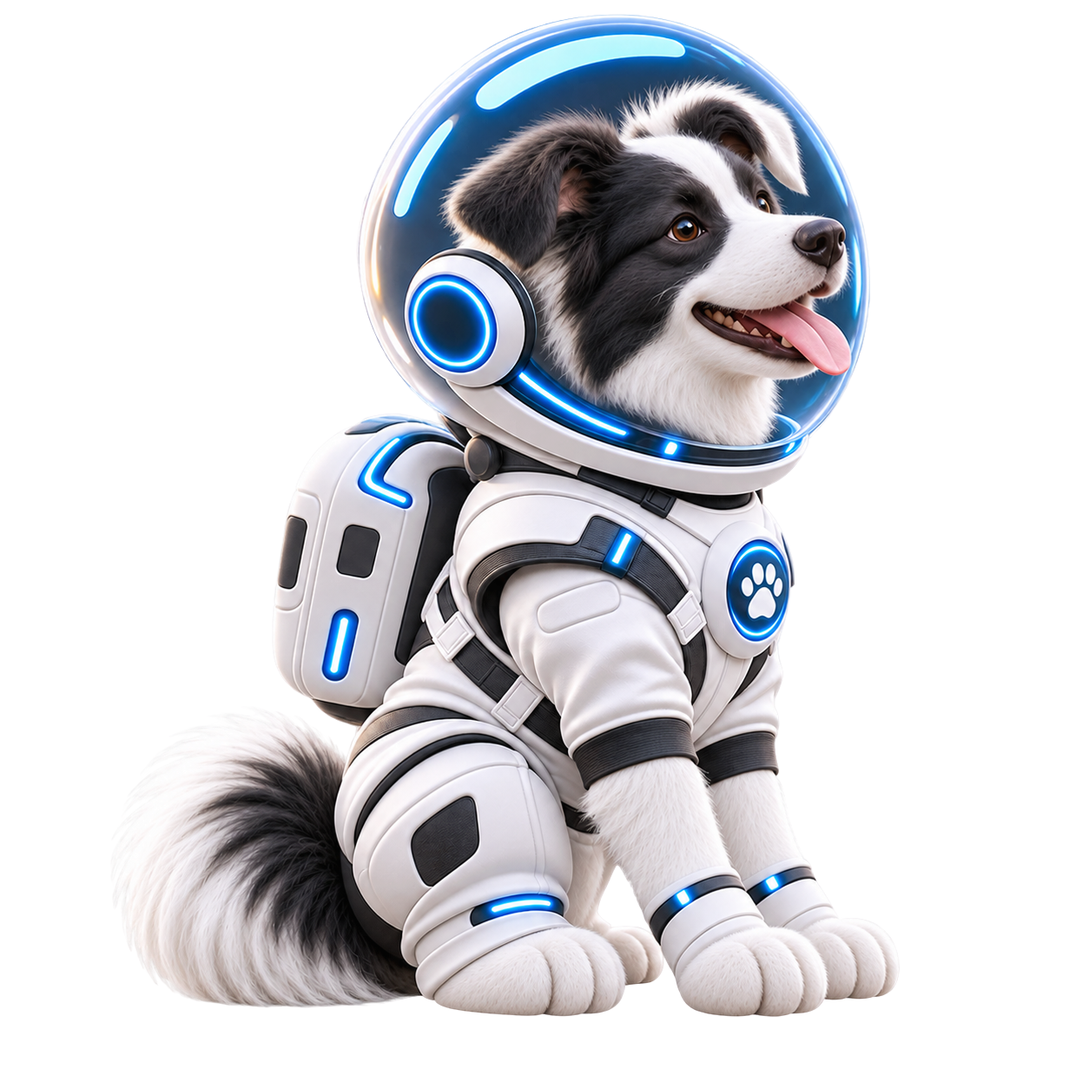
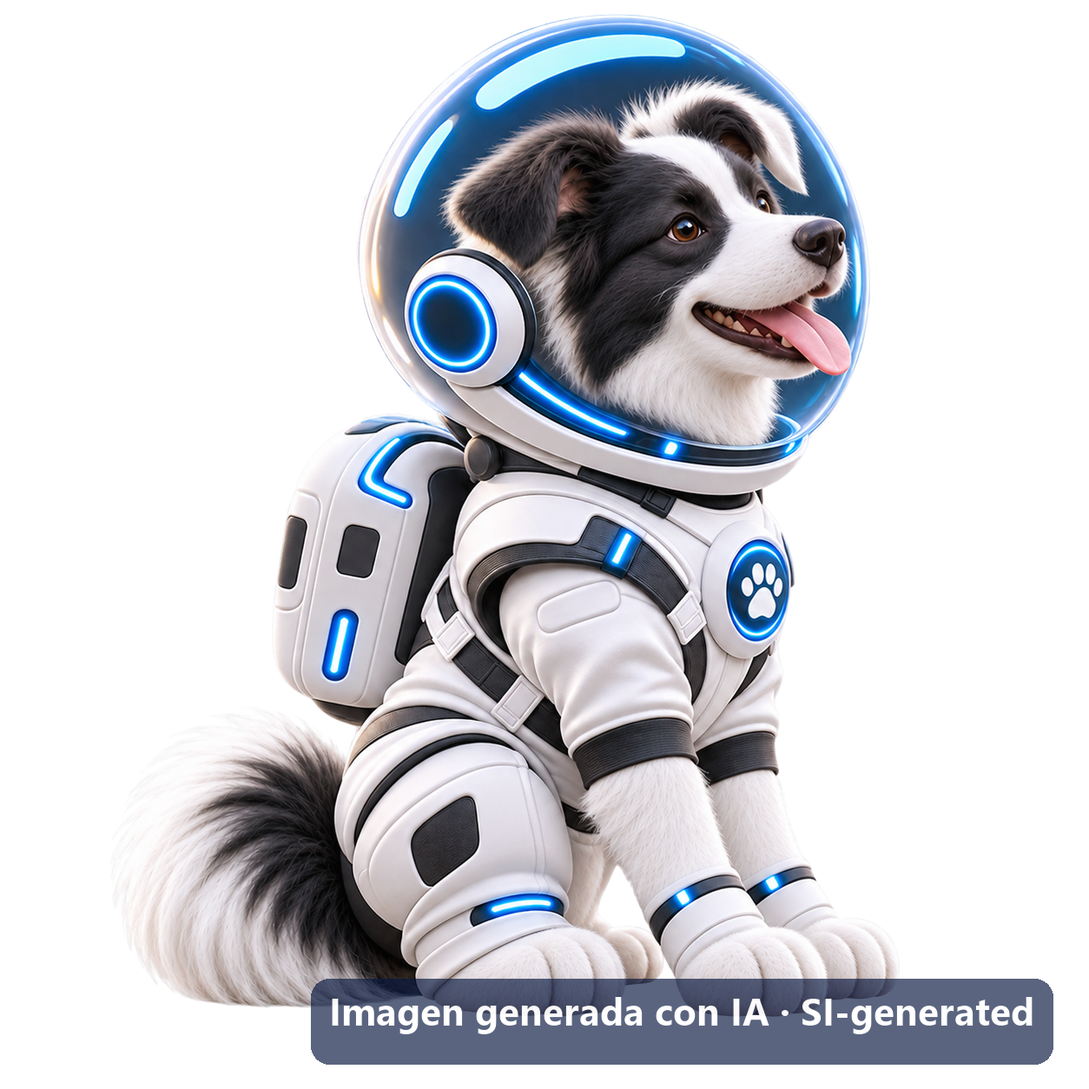
Entregables completos: enlaces públicos de demo y diapositivas, marca de agua de IA en las imágenes de Laica
- Laica muestra "Imagen generada con IA" en la app; cada diapositiva y los originales también la llevan.
- Ficha, declaración de IA, formulario, pitch y rúbrica sin placeholders: demo https://mision-laica.vercel.app y diapositivas /presentacion/.
- Ficha bilingüe con la charla de salud, la cámara con permiso y 40 pruebas.

Changed region(s): [[0.2799, 0.8708, 0.9952, 0.9952]]

diff --git a/entregables/diapositivas/index.html b/entregables/diapositivas/index.html
@@ -282,6 +282,9 @@ section.claro .num, section.claro .grande { color: #D0281A; }
   100.00% { transform: translate(0px, 0px) rotate(0.0deg) scale(1.000, 1.000); opacity: 1; }
 }
 
+/* Marca de agua visible: las imágenes de Laica se generaron con IA (regla de Space Apps). */
+section::after { content: "Imágenes de Laica generadas con IA · SI-generated images"; position: absolute; right: 40px; top: 40px; font: 600 20px 'Inter', Arial, sans-serif; color: #fff; background: rgba(7, 23, 63, .62); padding: 6px 16px; border-radius: 20px; z-index: 5; pointer-events: none; }
+
 </style>
 </head>
 <body>
@@ -297,7 +300,7 @@ section.claro .num, section.claro .grande { color: #D0281A; }
 <p class="texto entra" style="--i:2; width:940px; font-size:40px; color:var(--crema);">Una compañera que cuida la salud del astronauta cuando la Tierra está demasiado lejos para contestar.</p>
 <p class="texto entra" style="--i:3; width:940px;">Reto: <b>Create Health Monitoring Software for Astronauts on Space Missions</b></p>
 <p class="texto entra" style="--i:4; width:940px;">Equipo <b>Compumax Evolution</b> · Ecuador<br>Melany Irua · Diego Paz · Geovanny Basantes</p>
-<div class="pie"><span>github.com/COMPUMAX-EC/nasa-astronaut-health-monitoring</span><span>Demo: [enlace público de Vercel]</span></div>
+<div class="pie"><span>github.com/COMPUMAX-EC/nasa-astronaut-health-monitoring</span><span>Demo: mision-laica.vercel.app</span></div>
 <aside>[0:00–0:30] Gancho: “En Marte, un mensaje a la Tierra tarda hasta 22 minutos en llegar, y otros 22 en volver. Si a las 3 de la mañana a un astronauta le sube la presión, ¿quién le dice si es grave?” Presentarse: somos el equipo Compumax Evolution de Ecuador (Melany Irua, Diego Paz y Geovanny Basantes), reto oficial Create Health Monitoring Software for Astronauts on Space Missions. Esta es Misión Laica, y ella es Laica. (En la animación, Laica salta del monitor de la estación al celular del astronauta: la misma compañera en el módulo médico y en el bolsillo.)</aside>
 </section>
 

diff --git a/assets/laica/laica.js b/assets/laica/laica.js
@@ -572,6 +572,11 @@ svg.laica.p-cuatro.andando .cola { animation-duration: .3s; }
 .foto img.activa { opacity: 1; }
 .foto canvas.rig { position: absolute; left: -18%; top: -18%; width: 136%; height: 136%; pointer-events: none; }
 .foto.rig-on img { visibility: hidden; }
+.foto-modo { position: relative; }
+/* Marca de agua visible: las imágenes de Laica se generaron con IA (regla de Space Apps). */
+.marca-ia { position: absolute; left: 50%; bottom: 0; transform: translateX(-50%); white-space: nowrap; pointer-events: none;
+  font: 600 max(9px, calc(var(--tam, 200px) * .045)) system-ui, sans-serif; color: #fff; background: rgba(7, 23, 63, .62);
+  padding: .15em .6em; border-radius: 1em; letter-spacing: .02em; }
 .foto.rig-on.andando, .foto.rig-on.ladra { animation: none; }
 .fx { position: absolute; opacity: 0; pointer-events: none; font-weight: 800; line-height: 1; transition: opacity .3s; }
 .fx.zzz { top: 4%; right: 6%; color: #fff; font-size: calc(var(--tam) * .1); text-shadow: 0 2px 0 #1F2A5A; }
@@ -980,7 +985,7 @@ svg.laica.p-cuatro.andando .cola { animation-duration: .3s; }
             <span class="fx zzz">Z<i>z</i><i>z</i></span>
             <span class="fx destellos"><b style="left:6%;top:12%">✦</b><b style="right:8%;top:6%">✦</b><b style="right:2%;top:42%">✦</b><b style="left:2%;top:46%">✦</b></span>
             <span class="fx rad">☢</span><span class="fx sudor">💧</span>
-          </div></div></div>`;
+          </div></div><span class="marca-ia">Imagen generada con IA</span></div>`;
         this._fotos = [...root.querySelectorAll(".foto img")];
         this._foto = root.querySelector(".foto");
         this._giro = root.querySelector(".giro");

diff --git a/entregables/diapositivas/slides/portada.html b/entregables/diapositivas/slides/portada.html
@@ -6,6 +6,6 @@
 <p class="texto entra" style="--i:2; width:940px; font-size:40px; color:var(--crema);">Una compañera que cuida la salud del astronauta cuando la Tierra está demasiado lejos para contestar.</p>
 <p class="texto entra" style="--i:3; width:940px;">Reto: <b>Create Health Monitoring Software for Astronauts on Space Missions</b></p>
 <p class="texto entra" style="--i:4; width:940px;">Equipo <b>Compumax Evolution</b> · Ecuador<br>Melany Irua · Diego Paz · Geovanny Basantes</p>
-<div class="pie"><span>github.com/COMPUMAX-EC/nasa-astronaut-health-monitoring</span><span>Demo: [enlace público de Vercel]</span></div>
+<div class="pie"><span>github.com/COMPUMAX-EC/nasa-astronaut-health-monitoring</span><span>Demo: mision-laica.vercel.app</span></div>
 <aside>[0:00–0:30] Gancho: “En Marte, un mensaje a la Tierra tarda hasta 22 minutos en llegar, y otros 22 en volver. Si a las 3 de la mañana a un astronauta le sube la presión, ¿quién le dice si es grave?” Presentarse: somos el equipo Compumax Evolution de Ecuador (Melany Irua, Diego Paz y Geovanny Basantes), reto oficial Create Health Monitoring Software for Astronauts on Space Missions. Esta es Misión Laica, y ella es Laica. (En la animación, Laica salta del monitor de la estación al celular del astronauta: la misma compañera en el módulo médico y en el bolsillo.)</aside>
 </section>

diff --git a/entregables/diapositivas/deck.css b/entregables/diapositivas/deck.css
@@ -261,3 +261,6 @@ section.claro .num, section.claro .grande { color: #D0281A; }
   94.24% { transform: translate(0px, 0px) rotate(0.0deg) scale(1.000, 1.000); opacity: 0; }
   100.00% { transform: translate(0px, 0px) rotate(0.0deg) scale(1.000, 1.000); opacity: 1; }
 }
+
+/* Marca de agua visible: las imágenes de Laica se generaron con IA (regla de Space Apps). */
+section::after { content: "Imágenes de Laica generadas con IA · SI-generated images"; position: absolute; right: 40px; top: 40px; font: 600 20px 'Inter', Arial, sans-serif; color: #fff; background: rgba(7, 23, 63, .62); padding: 6px 16px; border-radius: 20px; z-index: 5; pointer-events: none; }

diff --git a/docs/13-pitch.en.md b/docs/13-pitch.en.md
@@ -6,21 +6,22 @@ The live pitch in Sangolquí is in Spanish; the platform deliverables must be bi
 
 ## Project summary (for the project page)
 
-**Laica Mission** is an offline health‑monitoring app for astronauts on long missions, built for the NASA Space Apps Challenge 2026 *Create Health Monitoring Software for Astronauts on Space Missions*. A corgi astronaut companion, Laica, runs the daily check‑in (voice, keyboard or mouse), turns vital signs into green / yellow / orange / red alerts based on NASA‑STD‑3001 thresholds, explains each body zone on a clickable human figure, and keeps the crew company against isolation, one of NASA’s 5 hazards of human spaceflight. It works without internet, keeps all data on the device, and can even leave the browser and walk across the desktop.
+**Laica Mission** is an offline health‑monitoring app for astronauts on long missions, built for the NASA Space Apps Challenge 2026 *Create Health Monitoring Software for Astronauts on Space Missions*. An astronaut dog companion, Laica, runs the daily check‑in (voice, keyboard or mouse), turns vital signs into green / yellow / orange / red alerts based on NASA‑STD‑3001 thresholds, explains each body zone on a clickable human figure, and keeps the crew company against isolation, one of NASA’s 5 hazards of human spaceflight. It works without internet, keeps all data on the device, and can even leave the browser and walk across the desktop.
 
 - **Repository:** https://github.com/COMPUMAX-EC/nasa-astronaut-health-monitoring (code MIT, texts CC BY 4.0)
-- **Live demo:** [public Vercel link]
+- **Live demo:** https://mision-laica.vercel.app
+- **Slides:** https://mision-laica.vercel.app/presentacion/
 - **NASA data and sources:** NASA‑STD‑3001 Vol. 1 and 2, Human Research Program (5 Hazards, Human Research Roadmap), DONKI API (solar energetic particle events and flares), OSDR, NTRS, NASA Twins Study.
-- **AI use:** Claude (Anthropic) was used as a coding and writing assistant; the team reviewed all output. [State whether the Canva images of Laica were AI‑generated; if so, they carry a watermark.] No NASA logos are used.
+- **AI use:** Claude (Anthropic) was used as a coding and writing assistant; the team reviewed all output. Laica's images were AI‑generated and carry a visible watermark. No NASA logos are used.
 
 ## Slides and script
 
 | # | Slide | Time | Script |
 |---|---|---|---|
-| 1 | Cover: Laica Mission | 0:00–0:30 | On Mars, a message to Earth takes up to 22 minutes to arrive, and 22 more to come back. If an astronaut’s blood pressure spikes at 3 a.m., who tells them whether it is serious? We are team [name] from Ecuador. This is Laica Mission, and this is Laica. |
+| 1 | Cover: Laica Mission | 0:00–0:30 | On Mars, a message to Earth takes up to 22 minutes to arrive, and 22 more to come back. If an astronaut’s blood pressure spikes at 3 a.m., who tells them whether it is serious? We are team Compumax Evolution from Ecuador: Melany Irua, Diego Paz and Geovanny Basantes. This is Laica Mission, and this is Laica. |
 | 2 | The problem | 0:30–1:15 | NASA groups spaceflight risks into 5 hazards: radiation, isolation, distance, gravity and a hostile, closed environment. With a 20‑minute delay, the crew cannot wait for ground control: they must notice changes themselves. Users: Artemis and Mars crews, analogs like HERA and CHAPEA, and isolated people on Earth, such as Ecuador’s Antarctic station, the Galápagos and remote rural areas. |
 | 3 | The solution | 1:15–2:00 | An offline app with four parts: daily check‑in by voice, keyboard or clicks; a four‑level alert engine that says what to do and when to call the flight surgeon; a clickable body that colors each zone by its worst indicator; and Laica, the companion. Existing tools measure; Laica Mission also keeps you company. |
 | 4 | NASA data | 2:00–2:50 | Thresholds come from NASA‑STD‑3001 (for example, the 600 mSv career radiation limit). From the Human Research Roadmap we built a 47‑indicator risk matrix (likelihood × severity, measurement frequency, collection method). NASA’s DONKI API provides solar particle events; our script downloads them, and the demo’s solar storm follows that event type and triggers the radiation alert (live connection is phase 6). Pipeline: official sources → risk matrix → threshold rules → level and action. Crew data are simulated (30 days, fixed seed, reproducible). |
-| 5 | Architecture and live demo | 2:50–4:00 | React + Vite PWA with an offline service worker, IndexedDB on the device only, Web Speech API in Spanish with no cloud, our own `<laica-mascota>` web component and an Electron desktop app; 33 automated tests. Demo: Laica greets → say “my pressure is 165 over 105” → red alert → click the heart → day 17 solar storm, go to the shelter → all green, Laica leaves the browser and walks on the taskbar. |
+| 5 | Architecture and live demo | 2:50–4:00 | React + Vite PWA with an offline service worker, IndexedDB on the device only, Web Speech API in Spanish with no cloud, our own `<laica-mascota>` web component and an Electron desktop app; 40 automated tests. Demo: Laica greets → say “my pressure is 165 over 105” → red alert → click the heart → day 17 solar storm, go to the shelter → all green, Laica leaves the browser and walks on the taskbar. |
 | 6 | Impact and roadmap | 4:00–4:40 | Medical autonomy in space; in Ecuador, support for isolated staff without internet, in Spanish; voice, keyboard or mouse, plain language, respects reduced motion. Next: phrase bank and local memory, live DONKI and camera heart rate, then real sensors and clinical validation of thresholds. Educational tool, not a medical device. |
 | 7 | Transparency and team | 4:40–5:00 | AI assistance declared, sources credited, CC0 sounds, only the official Space Apps event logo (no NASA insignia), open source. “On Earth we have someone to call. On Mars, Laica answers first.” |

diff --git a/entregables/ficha-proyecto.md b/entregables/ficha-proyecto.md
@@ -1,6 +1,6 @@
 # Ficha del proyecto · Project Sheet
 
-Texto listo para copiar en la plataforma global de NASA Space Apps y en el formulario de la sede. Los `[corchetes]` se completan antes de las 09:00 del domingo 15 de noviembre.
+Texto listo para copiar en la plataforma global de NASA Space Apps y en el formulario de la sede. Todos los campos están completos.
 
 | Campo | Valor |
 |---|---|
@@ -10,9 +10,9 @@ Texto listo para copiar en la plataforma global de NASA Space Apps y en el formu
 | **Reto / Challenge** | Create Health Monitoring Software for Astronauts on Space Missions |
 | **Repositorio / Repository** | https://github.com/COMPUMAX-EC/nasa-astronaut-health-monitoring |
 | **Licencia / License** | Código MIT; textos CC BY 4.0 ([LICENSE](../LICENSE)) |
-| **Demo pública / Live demo** | [enlace de Vercel; probar en modo incógnito] |
-| **Presentación / Slides** | [enlace público o PDF de 7 diapositivas] |
-| **Video (opcional) / Video** | [enlace; máximo 30 s] |
+| **Demo pública / Live demo** | https://mision-laica.vercel.app |
+| **Presentación / Slides** | https://mision-laica.vercel.app/presentacion/ (7 diapositivas animadas, sin iniciar sesión) |
+| **Video (opcional) / Video** | No se presenta (opcional) |
 | **Datos NASA / NASA data** | [datos-nasa.md](datos-nasa.md) |
 | **Declaración de IA / AI declaration** | [declaracion-ia.md](declaracion-ia.md) |
 
@@ -35,12 +35,14 @@ En una misión a Marte, un mensaje a la Tierra tarda hasta 22 minutos en llegar.
 - **Matriz de 47 indicadores** basada en el Human Research Program, con probabilidad × gravedad.
 - **Alerta de radiación** según los eventos de partículas solares de **DONKI** (NASA).
 - **Laica**, una perrita astronauta que combate el aislamiento. Cambia de tono según la alerta, ladra, habla y escucha, y hasta puede salir del navegador y caminar por el escritorio (app de escritorio en Electron).
+- **Charla con preguntas de salud:** Laica mezcla conversación casual con preguntas de un toque sobre la mente (ánimo, soledad, estrés) y el cuerpo (agua, ejercicio, vista y SANS, espalda, mareo). El ánimo se guarda como indicador.
+- **Cámara con permiso:** Laica pide permiso antes de prender la cámara; con MediaPipe, dentro del dispositivo y sin grabar nada, imita los gestos de la cabeza, se ríe cuando la persona se ríe y, si nota tristeza, propone una respiración guiada.
 
 **Por qué importa:** las herramientas existentes miden; Misión Laica además acompaña. Sirve a tripulaciones de Artemis y Marte y a análogos como HERA y CHAPEA. En Ecuador sirve a personal aislado (la estación antártica Pedro Vicente Maldonado, Galápagos, zonas rurales), porque funciona sin conexión y en español.
 
-**Tecnología:** React 18 + Vite (PWA con service worker), IndexedDB, Web Speech API, Web Component propio con animación WebGL, Electron y Python (scripts para las APIs de NASA). Tiene 33 pruebas automáticas.
+**Tecnología:** React 18 + Vite (PWA con service worker), IndexedDB, Web Speech API, MediaPipe Face Landmarker (en el dispositivo), Web Component propio con animación WebGL, Electron y Python (scripts para las APIs de NASA). Tiene 40 pruebas automáticas.
 
-**Próximos pasos:** banco de frases y memoria local, DONKI en vivo, frecuencia cardiaca por cámara, sensores reales y validación de los umbrales con médicos.
+**Próximos pasos:** respuestas por voz a las preguntas, memoria local, DONKI en vivo, frecuencia cardiaca por cámara, sensores reales y validación de los umbrales con médicos.
 
 **Aviso:** herramienta educativa; no es un dispositivo médico ni reemplaza al médico de vuelo. No está afiliado ni respaldado por la NASA.
 
@@ -63,11 +65,13 @@ On a mission to Mars, a message to Earth takes up to 22 minutes to arrive. Astro
 - **47‑indicator risk matrix** based on NASA's Human Research Program (likelihood × severity).
 - **Radiation alert** based on solar particle events from NASA's **DONKI**.
 - **Laica**, an astronaut dog who fights isolation. She changes tone with the alert level, barks, talks and listens, and can even leave the browser and walk across the desktop (Electron desktop app).
+- **Small talk with health questions:** Laica mixes casual conversation with one‑tap questions about the mind (mood, loneliness, stress) and the body (hydration, exercise, vision and SANS, back pain, nausea). Mood is saved as an indicator.
+- **Camera with consent:** Laica asks before turning on the camera; with MediaPipe, on the device and recording nothing, she mirrors head gestures, laughs when the person laughs and, if she notices sadness, offers a guided breathing exercise.
 
 **Why it matters:** existing tools measure; Laica Mission also keeps you company. It serves Artemis and Mars crews and analogs such as HERA and CHAPEA. In Ecuador it serves isolated personnel (Pedro Vicente Maldonado Antarctic station, Galápagos, rural areas), because it works offline and in Spanish.
 
-**Technology:** React 18 + Vite (PWA with service worker), IndexedDB, Web Speech API, our own Web Component with WebGL animation, Electron and Python (scripts for NASA APIs). 33 automated tests.
+**Technology:** React 18 + Vite (PWA with service worker), IndexedDB, Web Speech API, MediaPipe Face Landmarker (on‑device), our own Web Component with WebGL animation, Electron and Python (scripts for NASA APIs). 40 automated tests.
 
-**Next steps:** phrase bank and local memory, live DONKI, camera‑based heart rate, real sensors and clinical validation of thresholds.
+**Next steps:** voice answers to the health questions, local memory, live DONKI, camera‑based heart rate, real sensors and clinical validation of thresholds.
 
 **Disclaimer:** educational tool; not a medical device and not a replacement for a flight surgeon. Not affiliated with or endorsed by NASA.

diff --git a/entregables/formulario-space-apps.md b/entregables/formulario-space-apps.md
@@ -30,7 +30,7 @@ Everything runs locally as a PWA and an Electron desktop app: no internet, no cl
 **Project Demonstration** (slides, máximo 7, enlace público)
 
 ```
-[enlace público a las diapositivas: exportar el deck a PDF o PPTX, subirlo a Google Drive o GitHub con "cualquiera con el enlace"]
+https://mision-laica.vercel.app/presentacion/
 ```
 
 **Project** (enlace público)
@@ -39,7 +39,7 @@ Everything runs locally as a PWA and an Electron desktop app: no internet, no cl
 https://github.com/COMPUMAX-EC/nasa-astronaut-health-monitoring
 ```
 
-(Si la demo en Vercel ya está pública, puedes poner esa URL aquí y el repositorio en "Project Details".)
+Demo en vivo, sin iniciar sesión: https://mision-laica.vercel.app (si el formulario admite un solo enlace aquí, deja el repositorio; la demo ya aparece en "Project Details").
 
 ---
 
@@ -48,6 +48,8 @@ https://github.com/COMPUMAX-EC/nasa-astronaut-health-monitoring
 **Project Details**
 
 ```
+Live demo (no sign-in): https://mision-laica.vercel.app · Slides: https://mision-laica.vercel.app/presentacion/
+
 WHAT IT DOES
 Misión Laica helps an astronaut collect their own health indicators, understand their state and act, without waiting for Earth.
 1. Daily check-in by voice (Spanish Web Speech API, on-device), keyboard or clicks. Laica repeats what she understood before saving.
@@ -86,13 +88,13 @@ Voice answers to the health questions, live DONKI feed, mission profiles, camera
 
 - ✅ Código (code): Claude (Anthropic) se usó como asistente de programación.
 - ✅ Texto (text/writing): Claude ayudó a redactar documentación y el guion del pitch; el equipo revisó todo.
-- ❓ Imágenes (images): **solo si** las imágenes de Laica en Canva se generaron con IA. En ese caso deben llevar marca de agua visible "SI-generated" (ver `declaracion-ia.md`).
+- ✅ Imágenes (images): las imágenes de Laica se generaron con IA y llevan marca de agua visible "Imagen generada con IA · SI-generated" (en la app, en cada diapositiva y en los originales).
 - ❌ Audio: los sonidos son CC0 de OpenGameArt, no son generados por IA.
 
 Texto para el campo, si hay uno:
 
 ```
-We used Claude (Anthropic) as a coding and writing assistant: application code, the mascot's animation rig, the camera gesture logic, documentation and the pitch script. Every output was reviewed and tested by the team (33 automated tests). [If applicable: Laica's images were created in Canva with AI image tools and carry a visible "SI-generated" watermark.] No SI was used for audio (CC0 sound effects) or for the data: thresholds and events come from official NASA sources, and no user data is sent to any AI service. The official NASA Space Apps Challenge logo appears on the slides only to identify the event; no NASA insignia (meatball or worm), flags or mission identifiers were used or generated. Full declaration: entregables/declaracion-ia.md in the repository.
+We used Claude (Anthropic) as a coding and writing assistant: application code, the mascot's animation rig, the camera gesture logic, documentation and the pitch script. Every output was reviewed and tested by the team (40 automated tests). Laica's images were created with AI image tools and carry a visible "SI-generated" watermark in the app, on every slide and in the original files. No SI was used for audio (CC0 sound effects) or for the data: thresholds and events come from official NASA sources, and no user data is sent to any AI service. The official NASA Space Apps Challenge logo appears on the slides only to identify the event; no NASA insignia (meatball or worm), flags or mission identifiers were used or generated. Full declaration: entregables/declaracion-ia.md in the repository.
 ```
 
 ---
@@ -143,7 +145,7 @@ We used Claude (Anthropic) as a coding and writing assistant: application code, 
 
 Marcar las dos casillas (términos y obra original) **solo después** de comprobar que:
 
-- [ ] Todos los enlaces abren sin iniciar sesión, en una ventana privada.
-- [ ] Las diapositivas son 7 como máximo y el enlace es público.
-- [ ] La pregunta de las imágenes de Canva está resuelta (marca de agua si se hicieron con IA).
-- [ ] Solo aparece el logo oficial de Space Apps (identifica el evento); ninguna insignia, bandera ni identificador de misión de la NASA.
+- [x] Todos los enlaces abren sin iniciar sesión (demo, presentación y repositorio).
+- [x] Las diapositivas son 7 y el enlace es público.
+- [x] Las imágenes de Laica son de IA y llevan marca de agua visible.
+- [x] Solo aparece el logo oficial de Space Apps (identifica el evento); ninguna insignia, bandera ni identificador de misión de la NASA.

diff --git a/entregables/declaracion-ia.md b/entregables/declaracion-ia.md
@@ -10,7 +10,7 @@ El equipo declara que usó herramientas de Inteligencia Artificial en el desarro
 | Herramienta | Para qué se usó | Qué hizo el equipo |
 |---|---|---|
 | **Claude (Anthropic)**, asistente de código | Escribir y depurar código (app React/Vite, componente de Laica, app de escritorio Electron, scripts de Python), redactar y ordenar la documentación y armar el guion y las diapositivas del pitch | Definió el problema, la idea y el alcance; revisó, probó y aprobó todo el código y los textos; tomó las decisiones de diseño |
-| **Canva** (diseño "MASCOTA NASA SPACE") | Imágenes de Laica en 5 vistas | [**Completar:** indicar si las imágenes se generaron con IA de Canva. Si es así, llevan marca de agua "Imagen generada con IA".] |
+| **Canva** (diseño "MASCOTA NASA SPACE") | Imágenes de Laica (5 vistas, saludando, andando y saltando), **generadas con IA** | Pidió y eligió las imágenes, las recortó y las animó con su propio esqueleto WebGL. Todas llevan una marca de agua visible "Imagen generada con IA": en la app, debajo de Laica; en cada diapositiva; y en los archivos originales del repo |
 
 **Lo que NO usa IA:**
 
@@ -32,7 +32,7 @@ The team declares that it used Artificial Intelligence tools in this project as 
 | Tool | Used for | What the team did |
 |---|---|---|
 | **Claude (Anthropic)**, coding assistant | Writing and debugging code (React/Vite app, Laica component, Electron desktop app, Python scripts), drafting and organizing documentation, and building the pitch script and slides | Defined the problem, idea and scope; reviewed, tested and approved all code and text; made the design decisions |
-| **Canva** ("MASCOTA NASA SPACE" design) | Images of Laica in 5 views | [**Fill in:** state whether the images were generated with Canva AI. If so, they carry an "AI‑generated image" watermark.] |
+| **Canva** ("MASCOTA NASA SPACE" design) | Images of Laica (5 views, waving, walking and jumping), **AI‑generated** | Requested and chose the images, cropped them and animated them with its own WebGL rig. All carry a visible "AI‑generated image" watermark: in the app, below Laica; on every slide; and in the original files in the repo |
 
 **What does NOT use AI:**
 
@@ -40,7 +40,7 @@ The team declares that it used Artificial Intelligence tools in this project as 
 - **Voice recognition.** It uses the browser's Web Speech API with our own rule‑based parser.
 - **Data.** No user data is sent to AI services or to the cloud.
 
-**Logos:** the project does **not** use NASA's insignia ("meatball") or logotype ("worm"), nor any AI‑generated NASA logo. Credit is given in text: "Project for the NASA Space Apps Challenge 2026". The project is not affiliated with or endorsed by NASA.
+**Logos:** the project does **not** use NASA's insignia ("meatball") or logotype ("worm"), nor any AI‑generated NASA logo. The slides show, small, the official NASA Space Apps Challenge logo (unmodified, not AI‑generated) only to identify the event, as the Space Apps brand guide allows. Credit is given in text: "Project for the NASA Space Apps Challenge 2026". The project is not affiliated with or endorsed by NASA.
 
 **Other third‑party resources:**
 

diff --git a/docs/pitch5-min.md b/docs/pitch5-min.md
@@ -9,7 +9,7 @@ Porque las personas necesitamos hablar con otras personas y cuando estámos aisl
 Guion del pitch en vivo (en español) para la sede Sangolquí, armado sobre la [rúbrica oficial](rubrica/README.md). Son **7 diapositivas** (el máximo; con 8 se pierde 1 punto) y unos **5 minutos** de exposición. La guía no fija la duración: hay ≈ 15 minutos por equipo para pitch, Q&A y calificación, así que **confirmen el tiempo con el Staff** y recorten la demo si les dan menos.
 
 - **Diapositivas:** las del artefacto "Misión Laica — Pitch" (se exportan a PDF o PPTX). Las notas del orador de cada diapositiva tienen el texto de abajo.
-- **Placeholders a llenar:** `[enlace público de Vercel]` y la nota sobre IA en las imágenes de Canva.
+- **Enlaces:** demo https://mision-laica.vercel.app · diapositivas https://mision-laica.vercel.app/presentacion/. Las imágenes de Laica son de IA y llevan marca de agua visible.
 
 ## 1. Estructura y tiempos
 
@@ -55,7 +55,7 @@ La historia sigue **Problema → Solución con datos → Impacto**, que es lo qu
 
 ### 5 · Arquitectura y demo en vivo (70 s)
 
-> Por dentro: React y Vite como PWA que se guarda offline, datos en IndexedDB **solo en el dispositivo**, voz con la Web Speech API del navegador, sin nube, y Laica como componente web propio, con una app de escritorio en Electron. Todo es código abierto y tiene 33 pruebas automáticas.
+> Por dentro: React y Vite como PWA que se guarda offline, datos en IndexedDB **solo en el dispositivo**, voz con la Web Speech API del navegador, sin nube, y Laica como componente web propio, con una app de escritorio en Electron. Todo es código abierto y tiene 40 pruebas automáticas.
 
 Demo (ensayarla al menos tres veces):
 
@@ -103,10 +103,10 @@ Es el área más débil de una app de este tipo y pesa 50 % en Best Use of Data 
 
 ## 5. Lista de entrega (antes de las 09:00 del domingo)
 
-- [ ] Llenar los placeholders del pitch y exportarlo a PDF (7 páginas).
-- [ ] Demo pública en Vercel abriendo en **modo incógnito**.
-- [ ] Repositorio público con `LICENSE` en la raíz ✅.
+- [x] Placeholders llenos; diapositivas públicas en https://mision-laica.vercel.app/presentacion/.
+- [x] Demo pública en Vercel: https://mision-laica.vercel.app (abre sin iniciar sesión).
+- [x] Repositorio público con `LICENSE` en la raíz.
 - [ ] Ficha del proyecto en la plataforma global, en **español e inglés**.
-- [ ] Marcar la declaración de uso de IA; confirmar si las imágenes de Canva son de IA y, si lo son, ponerles marca de agua.
-- [ ] Sin logos de la NASA (el logo oficial de Space Apps sí se puede usar según su guía de marca).
+- [x] Declaración de IA: las imágenes de Laica son de IA y llevan marca de agua; marcar Código, Texto e Imágenes en la plataforma.
+- [x] Sin logos de la NASA (el logo oficial de Space Apps sí se puede usar según su guía de marca).
 - [ ] Ensayar la demo con el plan B.

diff --git a/docs/13-pitch.md b/docs/13-pitch.md
@@ -5,7 +5,7 @@
 Guion del pitch en vivo (en español) para la sede Sangolquí, armado sobre la [rúbrica oficial](rubrica/README.md). Son **7 diapositivas** (el máximo; con 8 se pierde 1 punto) y unos **5 minutos** de exposición. La guía no fija la duración: hay ≈ 15 minutos por equipo para pitch, Q&A y calificación, así que **confirmen el tiempo con el Staff** y recorten la demo si les dan menos.
 
 - **Diapositivas:** las del artefacto "Misión Laica — Pitch" (se exportan a PDF o PPTX). Las notas del orador de cada diapositiva tienen el texto de abajo.
-- **Placeholders a llenar:** `[enlace público de Vercel]` y la nota sobre IA en las imágenes de Canva.
+- **Enlaces:** demo https://mision-laica.vercel.app · diapositivas https://mision-laica.vercel.app/presentacion/. Las imágenes de Laica son de IA y llevan marca de agua visible.
 
 ## 1. Estructura y tiempos
 
@@ -51,7 +51,7 @@ La historia sigue **Problema → Solución con datos → Impacto**, que es lo qu
 
 ### 5 · Arquitectura y demo en vivo (70 s)
 
-> Por dentro: React y Vite como PWA que se guarda offline, datos en IndexedDB **solo en el dispositivo**, voz con la Web Speech API del navegador, sin nube, y Laica como componente web propio, con una app de escritorio en Electron. Todo es código abierto y tiene 33 pruebas automáticas.
+> Por dentro: React y Vite como PWA que se guarda offline, datos en IndexedDB **solo en el dispositivo**, voz con la Web Speech API del navegador, sin nube, y Laica como componente web propio, con una app de escritorio en Electron. Todo es código abierto y tiene 40 pruebas automáticas.
 
 Demo (ensayarla al menos tres veces):
 
@@ -99,10 +99,10 @@ Es el área más débil de una app de este tipo y pesa 50 % en Best Use of Data 
 
 ## 5. Lista de entrega (antes de las 09:00 del domingo)
 
-- [ ] Llenar los placeholders del pitch y exportarlo a PDF (7 páginas).
-- [ ] Demo pública en Vercel abriendo en **modo incógnito**.
-- [ ] Repositorio público con `LICENSE` en la raíz ✅.
+- [x] Placeholders llenos; diapositivas públicas en https://mision-laica.vercel.app/presentacion/.
+- [x] Demo pública en Vercel: https://mision-laica.vercel.app (abre sin iniciar sesión).
+- [x] Repositorio público con `LICENSE` en la raíz.
 - [ ] Ficha del proyecto en la plataforma global, en **español e inglés**.
-- [ ] Marcar la declaración de uso de IA; confirmar si las imágenes de Canva son de IA y, si lo son, ponerles marca de agua.
-- [ ] Sin logos de la NASA (el logo oficial de Space Apps sí se puede usar según su guía de marca).
+- [x] Declaración de IA: las imágenes de Laica son de IA y llevan marca de agua; marcar Código, Texto e Imágenes en la plataforma.
+- [x] Sin logos de la NASA (el logo oficial de Space Apps sí se puede usar según su guía de marca).
 - [ ] Ensayar la demo con el plan B.

diff --git a/entregables/README.md b/entregables/README.md
@@ -4,11 +4,11 @@ Entrega: **domingo 15 de noviembre de 2026, 09:00**, en el formulario de la sede
 
 | Entregable | Archivo | Penalización si falta | Estado |
 |---|---|---|---|
-| Ficha del proyecto (ES + EN) | [ficha-proyecto.md](ficha-proyecto.md) | −1 si no es bilingüe | ⚠ Completar los `[corchetes]` y cargar en la plataforma |
+| Ficha del proyecto (ES + EN) | [ficha-proyecto.md](ficha-proyecto.md) | −1 si no es bilingüe | ✅ Completa; cargar en la plataforma |
 | Datos abiertos de la NASA citados y enlazados | [datos-nasa.md](datos-nasa.md) | −2 | ✅ Listo; copiar los enlaces a la ficha |
-| Declaración de uso de IA | [declaracion-ia.md](declaracion-ia.md) | −1 | ⚠ Confirmar si las imágenes de Canva son de IA y marcar la casilla en la plataforma |
-| Texto del formulario de envío (campo por campo, listo para pegar) | [formulario-space-apps.md](formulario-space-apps.md) | — | ✅ Listo; completar los `[corchetes]` |
+| Declaración de uso de IA | [declaracion-ia.md](declaracion-ia.md) | −1 | ✅ Imágenes de IA con marca de agua; marcar Código, Texto e Imágenes |
+| Texto del formulario de envío (campo por campo, listo para pegar) | [formulario-space-apps.md](formulario-space-apps.md) | — | ✅ Listo para pegar |
 | Repositorio público con licencia en la raíz | [LICENSE](../LICENSE) | −2 | ✅ |
-| Presentación (máx. 7 diapositivas) | Guion: [docs/13-pitch.md](../docs/13-pitch.md) · [EN](../docs/13-pitch.en.md) | −1 si tiene 8 o más | ⚠ Completar los datos del equipo y exportar a PDF |
-| Demo pública | Vercel | −1 si no abre en incógnito | ⚠ Publicar y probar en incógnito |
+| Presentación (máx. 7 diapositivas) | Guion: [docs/13-pitch.md](../docs/13-pitch.md) · [EN](../docs/13-pitch.en.md) | −1 si tiene 8 o más | ✅ Pública: https://mision-laica.vercel.app/presentacion/ |
+| Demo pública | https://mision-laica.vercel.app | −1 si no abre en incógnito | ✅ Publicada |
 | Video demo (opcional) | — | −1 si dura más de 35 s | ⬜ Opcional |

diff --git a/docs/rubrica/README.md b/docs/rubrica/README.md
@@ -20,10 +20,10 @@ Nuestro reto (*Create Health Monitoring Software for Astronauts on Space Mission
 |---|---|---|
 | Citar y enlazar datos abiertos de NASA | −2 | ✅ [docs/04](../04-datos-y-apis.md), [docs/02](../02-estandares-nasa-std-3001.md), diapositiva 4 |
 | Repositorio público con **archivo de licencia en la raíz** | −2 | ✅ [LICENSE](../../LICENSE) (MIT para el código; textos CC BY 4.0) |
-| Todos los enlaces abren en incógnito (sin 404 ni permisos) | −1 | ⚠ Probar el link de la demo (Vercel) y el de las diapositivas en incógnito |
+| Todos los enlaces abren en incógnito (sin 404 ni permisos) | −1 | ✅ Demo https://mision-laica.vercel.app y diapositivas https://mision-laica.vercel.app/presentacion/ abren sin iniciar sesión |
 | **Máximo 7 diapositivas** (o video ≤ 30 s, tolerancia 35 s) | −1 | ✅ El pitch tiene 7 |
-| Declaración de IA, marca de agua en imágenes hechas con IA, sin logos NASA | −1 | ✅ Diapositiva 7; ⚠ confirmar si las imágenes de Canva son de IA |
-| Ficha y entregables en **español e inglés** | −1 | ✅ [docs/13](../13-pitch.md) y [docs/13 (EN)](../13-pitch.en.md); ⚠ la ficha de la plataforma también |
+| Declaración de IA, marca de agua en imágenes hechas con IA, sin logos NASA | −1 | ✅ Diapositiva 7; imágenes de Laica de IA con marca de agua visible |
+| Ficha y entregables en **español e inglés** | −1 | ✅ [docs/13](../13-pitch.md) y [docs/13 (EN)](../13-pitch.en.md); ✅ [ficha bilingüe](../../entregables/ficha-proyecto.md) |
 
 ## Rúbrica en vivo: 4 áreas × 5 preguntas (escala 1 a 5)
 
